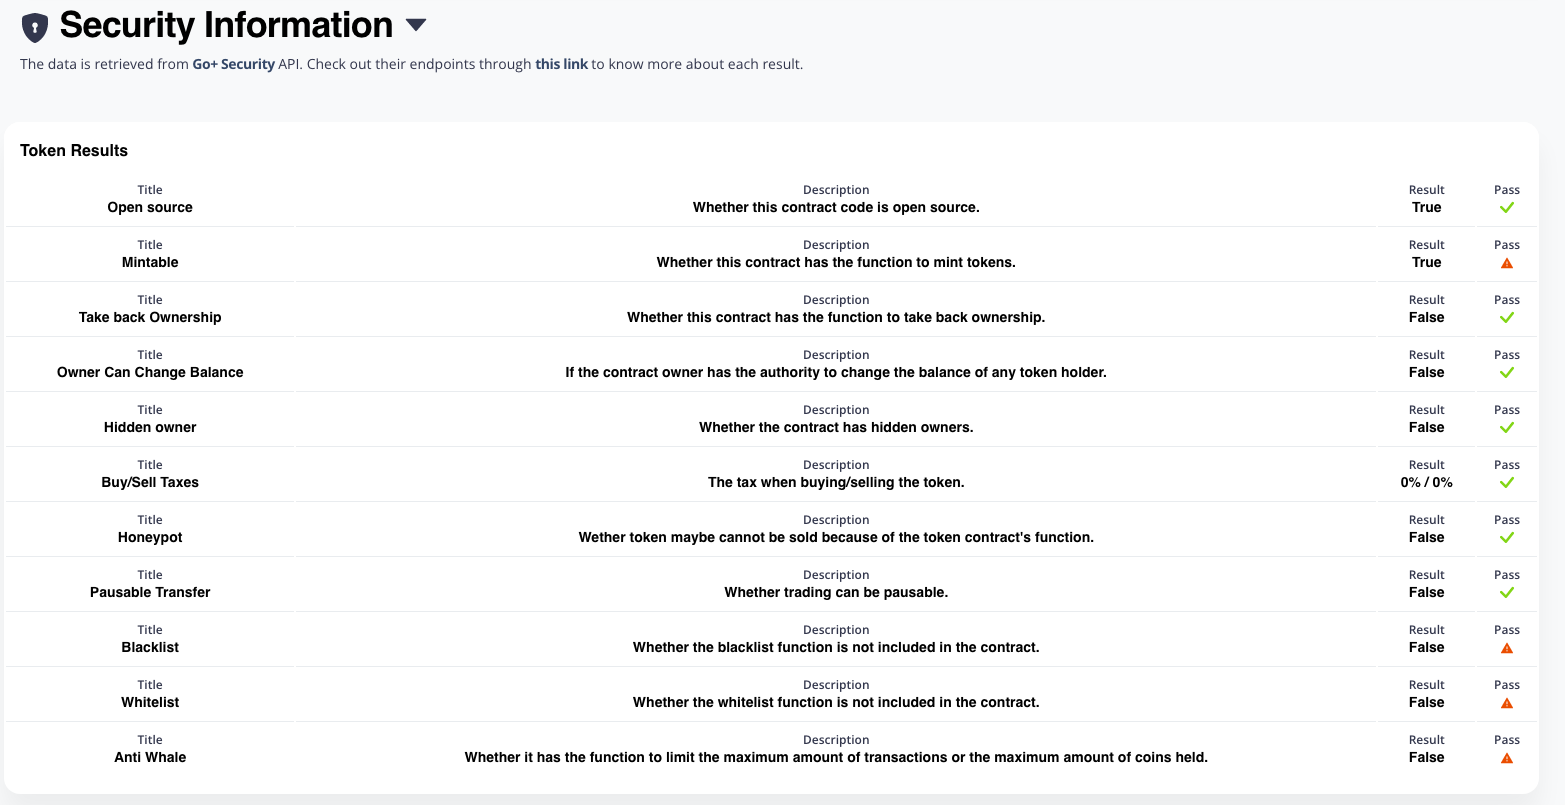
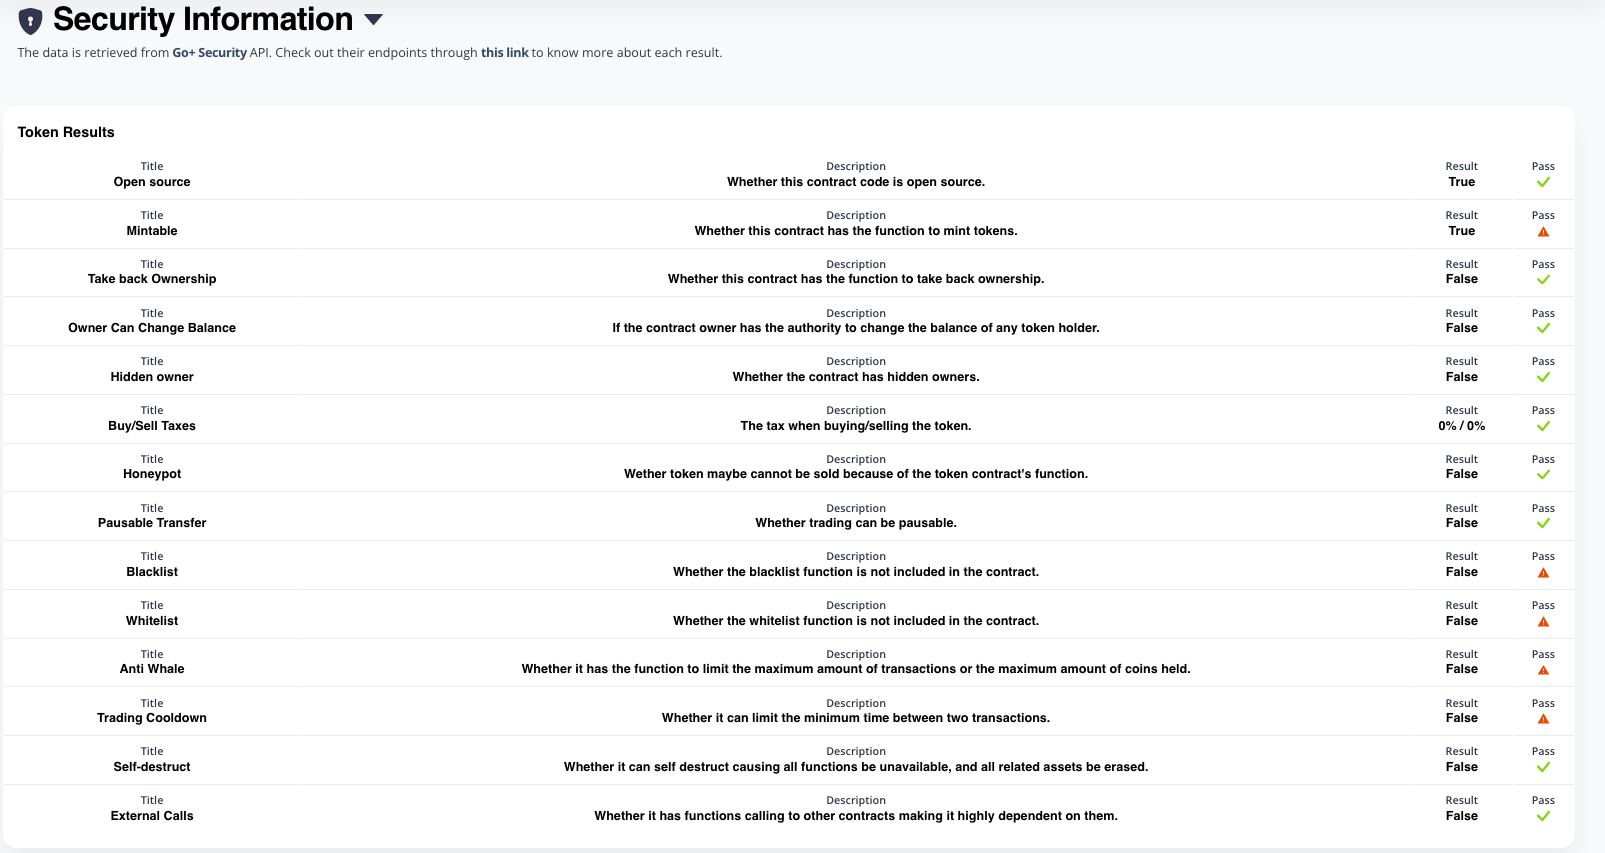
new security checks added to advanced analysis: trading cool-down, self-destruct and external call

diff --git a/components/analysis/advanced/SecurityInformationTable.js b/components/analysis/advanced/SecurityInformationTable.js
@@ -5,7 +5,7 @@ import { BsCheckLg } from "react-icons/bs"
 import { booleanText } from '../../../services/myjs'
 
 function SecurityInformationTable({ tokenSecurityResults }) {
-    
+
     return tokenSecurityResults && (
         <div className="table-responsive">
             <table className="table align-items-center top-holders active">
@@ -401,6 +401,105 @@ function SecurityInformationTable({ tokenSecurityResults }) {
                                     <p className="text-xs font-weight-bold mb-0">Pass</p>
                                     <h6 className="text-sm mb-0">
                                         {tokenSecurityResults.is_anti_whale == 0 ?
+                                            <AiFillWarning color={"#EA4D00"} /> : <BsCheckLg color={"#82d616"} />
+                                        }
+                                    </h6>
+                                </div>
+                            </td>
+                        </tr>
+                    }
+
+                    {tokenSecurityResults.trading_cooldown &&
+                        <tr>
+                            <td>
+                                <div className="text-center">
+                                    <p className="text-xs font-weight-bold mb-0">Title</p>
+                                    <h6 className="text-sm mb-0">Trading Cooldown</h6>
+                                </div>
+                            </td>
+                            <td>
+                                <div className="text-center">
+                                    <p className="text-xs font-weight-bold mb-0">Description</p>
+                                    <h6 className="text-sm mb-0">Whether it can limit the minimum time between two transactions.</h6>
+                                </div>
+                            </td>
+                            <td>
+                                <div className="text-center">
+                                    <p className="text-xs font-weight-bold mb-0">Result</p>
+                                    <h6 className="text-sm mb-0">{booleanText(tokenSecurityResults.trading_cooldown)}</h6>
+                                </div>
+                            </td>
+                            <td>
+                                <div className="text-center">
+                                    <p className="text-xs font-weight-bold mb-0">Pass</p>
+                                    <h6 className="text-sm mb-0">
+                                        {tokenSecurityResults.trading_cooldown == 0 ?
+                                            <AiFillWarning color={"#EA4D00"} /> : <BsCheckLg color={"#82d616"} />
+                                        }
+                                    </h6>
+                                </div>
+                            </td>
+                        </tr>
+                    }
+
+                    {tokenSecurityResults.selfdestruct &&
+                        <tr>
+                            <td>
+                                <div className="text-center">
+                                    <p className="text-xs font-weight-bold mb-0">Title</p>
+                                    <h6 className="text-sm mb-0">Self-destruct</h6>
+                                </div>
+                            </td>
+                            <td>
+                                <div className="text-center">
+                                    <p className="text-xs font-weight-bold mb-0">Description</p>
+                                    <h6 className="text-sm mb-0">Whether it can self destruct causing all functions be unavailable, and all related assets be erased.</h6>
+                                </div>
+                            </td>
+                            <td>
+                                <div className="text-center">
+                                    <p className="text-xs font-weight-bold mb-0">Result</p>
+                                    <h6 className="text-sm mb-0">{booleanText(tokenSecurityResults.selfdestruct)}</h6>
+                                </div>
+                            </td>
+                            <td>
+                                <div className="text-center">
+                                    <p className="text-xs font-weight-bold mb-0">Pass</p>
+                                    <h6 className="text-sm mb-0">
+                                        {tokenSecurityResults.selfdestruct != 0 ?
+                                            <AiFillWarning color={"#EA4D00"} /> : <BsCheckLg color={"#82d616"} />
+                                        }
+                                    </h6>
+                                </div>
+                            </td>
+                        </tr>
+                    }
+
+                    {tokenSecurityResults.external_call &&
+                        <tr>
+                            <td>
+                                <div className="text-center">
+                                    <p className="text-xs font-weight-bold mb-0">Title</p>
+                                    <h6 className="text-sm mb-0">External Calls</h6>
+                                </div>
+                            </td>
+                            <td>
+                                <div className="text-center">
+                                    <p className="text-xs font-weight-bold mb-0">Description</p>
+                                    <h6 className="text-sm mb-0">Whether it has functions calling to other contracts making it highly dependent on them.</h6>
+                                </div>
+                            </td>
+                            <td>
+                                <div className="text-center">
+                                    <p className="text-xs font-weight-bold mb-0">Result</p>
+                                    <h6 className="text-sm mb-0">{booleanText(tokenSecurityResults.external_call)}</h6>
+                                </div>
+                            </td>
+                            <td>
+                                <div className="text-center">
+                                    <p className="text-xs font-weight-bold mb-0">Pass</p>
+                                    <h6 className="text-sm mb-0">
+                                        {tokenSecurityResults.external_call != 0 ?
                                             <AiFillWarning color={"#EA4D00"} /> : <BsCheckLg color={"#82d616"} />
                                         }
                                     </h6>
